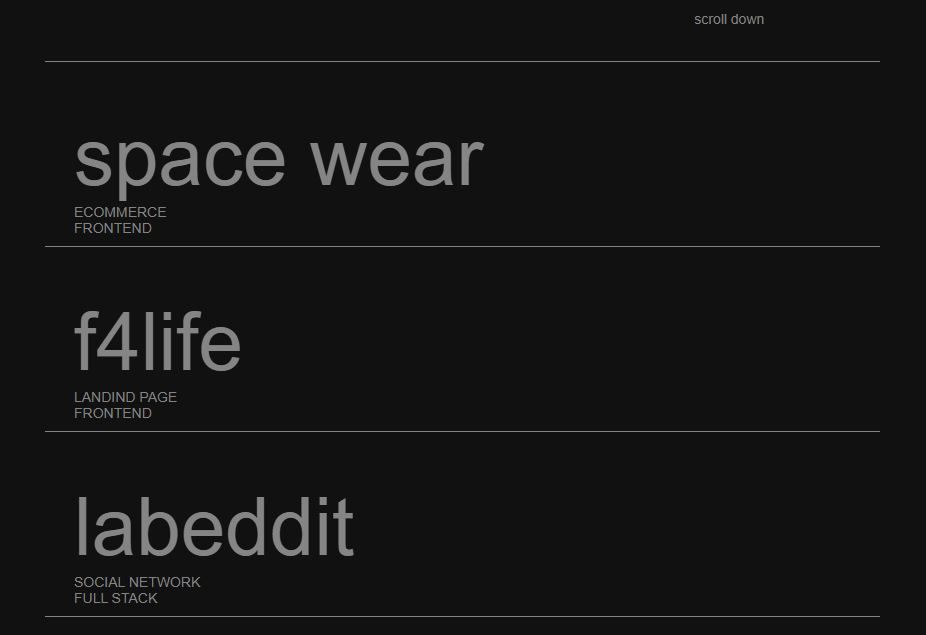
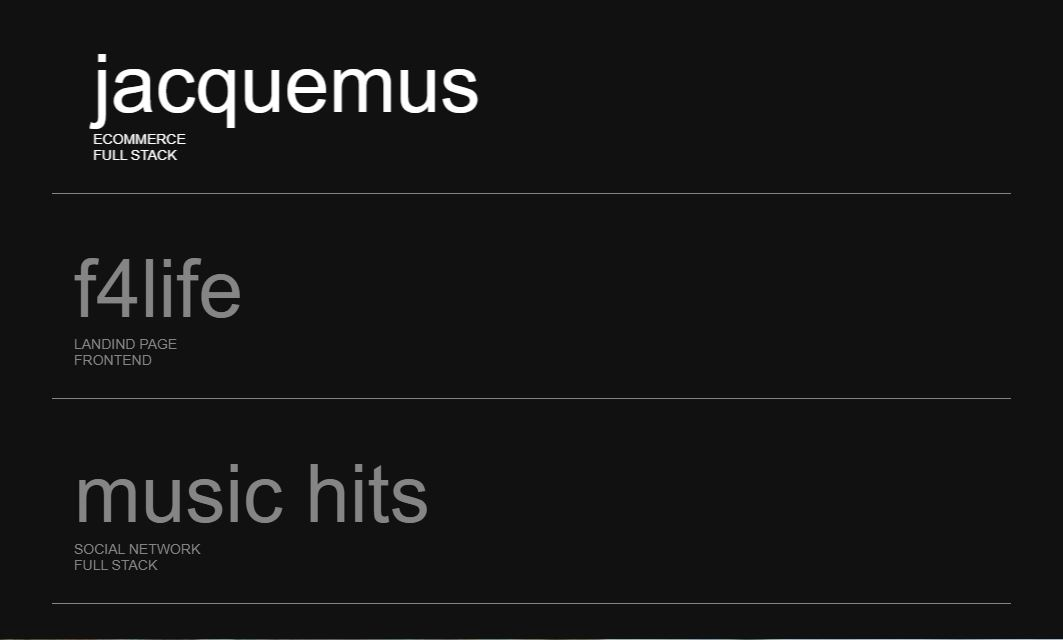
updated projects

diff --git a/index.html b/index.html
@@ -21,7 +21,7 @@
         <nav class="header-navbar">
             <ul>
                 <li>
-                    <a  href="#work" class="up">work</a>
+                    <a href="#work" class="up">work</a>
                 </li>
                 <li>
                     <a href="#about" class="up">about</a>
@@ -45,34 +45,46 @@
                     <h2 class="project-name">Jacquemus</h2>
                     <div class="type">
                         <p>Ecommerce</p>
-                        <p>Frontend</p>
+                        <p>Full Stack</p>
                     </div>
                 </div>
                 <div class="project-content">
+                    <div class="arrow">
+                        <img src="assets/4.gif" draggable="false" alt="arrow">
+                        <p>drag to see more images</p>
+                    </div>
                     <div class="album" data-mouse-down-at="0" data-prev-percentage="0">
                         <div class="album-images" data-max-scroll="300vw">
-                            <img src="assets/1/ecommerce.gif" draggable="false">
-                            <img src="assets/1/1.png" draggable="false">
-                            <img src="assets/1/2.png" draggable="false">
-                            <img src="assets/1/3.png" draggable="false">
-                            <img src="assets/1/mobile.jpg" draggable="false">
+                            <img src="assets/Ecommerce/ecommerce.gif" draggable="false" alt="print of the project">
+                            <img src="assets/Ecommerce/mobile.jpg" draggable="false" alt="print of the project">
+                            <img src="assets/Ecommerce/1.JPG" draggable="false" alt="print of the project">
+                            <img src="assets/Ecommerce/2.JPG" draggable="false" alt="print of the project">
+                            <img src="assets/Ecommerce/3.JPG" draggable="false" alt="print of the project">
+                            <img src="assets/Ecommerce/4.JPG" draggable="false" alt="print of the project">
+                            <img src="assets/Ecommerce/5.JPG" draggable="false" alt="print of the project">
                         </div>
                     </div>
                     <div class="technologies">
                         <button>
-                            <a href="https://ecommercefrontend-ojoaoneiva.surge.sh/" target="_blank">
+                            <a href="https://ecommerce-joaoneiva.surge.sh/" target="_blank">
                                 Visit site
                             </a>
                         </button>
                         <h4>technologies used:</h4>
                         <ul>
-                            <li>React JS,</li>
-                            <li>Props,</li>
-                            <li>React State,</li>
-                            <li>List rendering,</li>
-                            <li>Conditional rendering,</li>
-                            <li>Local Storage</li>
+                            <li>React,</li>
+                            <li>NodeJS,</li>
+                            <li>Typescript,</li>
+                            <li>Express,</li>
+                            <li>SQLite,</li>
+                            <li>Knex</li>
                         </ul>
+                        <p>The personal project consists on building a fullstack ecommerce, inspired by the Jacquemus
+                            fashion brand website.The backend API and datasource enable user login and signup, and only
+                            if it's an Adim it can create, edit and delete products. The responsive frontend includes a
+                            shopping cart, search filters, product sorting, multiple types of products, a product page
+                            with more details, animation effects for better UI and UX and retain products in the
+                            shopping cart when the page is refreshed.</p>
                     </div>
                 </div>
                 </div>
@@ -87,13 +99,17 @@
                     </div>
                 </div>
                 <div class="project-content">
+                    <div class="arrow">
+                        <img src="assets/4.gif" draggable="false" alt="arrow">
+                        <p>drag to see more images</p>
+                    </div>
                     <div class="album" data-mouse-down-at="0" data-prev-percentage="0">
                         <div class="album-images" data-max-scroll="280vw">
-                            <img src="assets/2/F4life.gif" draggable="false">
-                            <img src="assets/2/a1.jpg" draggable="false">
-                            <img src="assets/2/a2.jpg" draggable="false">
-                            <img src="assets/2/a3.jpg" draggable="false">
-                            <img src="assets/2/amobile.jpg" draggable="false">
+                            <img src="assets/UNIH/UNIH.gif" draggable="false" alt="print of the project">
+                            <img src="assets/UNIH/mobile.jpg" draggable="false" alt="print of the project">
+                            <img src="assets/UNIH/1.jpg" draggable="false" alt="print of the project">
+                            <img src="assets/UNIH/2.jpg" draggable="false" alt="print of the project">
+                            <img src="assets/UNIH/3.jpg" draggable="false" alt="print of the project">
                         </div>
                     </div>
                     <div class="technologies">
@@ -108,9 +124,12 @@
                             <li>CSS,</li>
                             <li>JavaScript,</li>
                             <li>DOM,</li>
-                            <li>CSS grid,</li>
-                            <li>Flexbox</li>
+                            <li>GSAP</li>
                         </ul>
+                        <p>Responsive landing page that responds to user interactions, for a fictional company focusing
+                            on university housing. It has parallax effect to give depth ilusion, animation on texts and
+                            images, hamburguer for mobile menu, image slider, loading page, smooth scroll, smooth
+                            section transition.</p>
                     </div>
                 </div>
                 </div>
@@ -125,17 +144,21 @@
                     </div>
                 </div>
                 <div class="project-content">
+                    <div class="arrow">
+                        <img src="assets/4.gif" draggable="false" alt="arrow">
+                        <p>drag to see more images</p>
+                    </div>
                     <div class="album" data-mouse-down-at="0" data-prev-percentage="0">
                         <div class="album-images" data-max-scroll="0">
-                            <img src="assets/3/musichits1.gif" draggable="false">
-                            <img src="assets/3/musichits2.gif" draggable="false">
-                            <img src="assets/3/mobile.jpg" draggable="false">
-                            <img src="assets/3/1.JPG" draggable="false">
-                            <img src="assets/3/2.JPG" draggable="false">
-                            <img src="assets/3/3.JPG" draggable="false">
-                            <img src="assets/3/4.JPG" draggable="false">
-                            <img src="assets/3/5.JPG" draggable="false">
-                            <img src="assets/3/6.JPG" draggable="false">
+                            <img src="assets/MusicHits/musichits1.gif" draggable="false">
+                            <img src="assets/MusicHits/musichits2.gif" draggable="false">
+                            <img src="assets/MusicHits/mobile.jpg" draggable="false">
+                            <img src="assets/MusicHits/1.JPG" draggable="false" alt="print of the project">
+                            <img src="assets/MusicHits/2.JPG" draggable="false" alt="print of the project">
+                            <img src="assets/MusicHits/3.JPG" draggable="false" alt="print of the project">
+                            <img src="assets/MusicHits/4.JPG" draggable="false" alt="print of the project">
+                            <img src="assets/MusicHits/5.JPG" draggable="false" alt="print of the project">
+                            <img src="assets/MusicHits/6.JPG" draggable="false" alt="print of the project">
                         </div>
                     </div>
                     <div class="technologies">
@@ -162,6 +185,11 @@
                             <li>POO,</li>
                             <li>Layred Archtecture</li>
                         </ul>
+                        <p>Fullstack website, of a responsive social media plataform to share music videos and its
+                            backend applicaction that builds an API with data source for users, posts, likes, and
+                            comments, creating hashed password for better security of data. The front-end has
+                            funcionalitys for login and signup, profile page, Home page with all user's posts or
+                            friend's posts, notifications, search for users and create, edit and delete posts.</p>
                     </div>
                 </div>
                 <div class="line"></div>
@@ -170,7 +198,9 @@
 
         <div id="about">
             <p>
-                Hi there! I'm a developer from Brazil, focused on building frontend applications. I also have experiences working on full-stack personal projects and I'm constatly studying and exploring new technologies. If you have any questions or colaboration proposals in mind, feel free to get in touch!
+                Hi there! I'm a developer from Brazil, focused on building fullstack applications. I have
+                experiences working on  personal projects of websites and I'm constatly studying and exploring new
+                technologies. If you have any questions or colaboration proposals in mind, feel free to get in touch!
             </p>
         </div>
     </main>
@@ -178,10 +208,8 @@
     <footer id="contact">
         <div id="email">jg.neiva@gmail.com</div>
         <div>
-            <a class="button-hover" href="https://www.linkedin.com/in/ojoaoneiva/" target="_blank">LinkedIn</a>
+            <a class="buttonEffect" href="https://www.linkedin.com/in/ojoaoneiva/" target="_blank">LinkedIn</a>
             <a class="buttonEffect" href="https://github.com/ojoaoneiva/" target="_blank">GitHub</a>
-            <a class="buttonEffect" href="assets/cv-en/CV Joao Neiva.pdf" target="_blank">CV-english</a>
-            <a class="buttonEffect" href="assets/cv-pt/CV João Neiva.pdf" target="_blank">CV-português</a>
         </div>
         <p>Joao Gabriel Neiva &copy; Copyright - 2023. Fullstack portfolio</p>
     </footer>

diff --git a/sass/style.sass b/sass/style.sass
@@ -24,6 +24,44 @@ a:hover
 ul
     list-style: none
 
+.buttonEffect
+    color: variables.$color-text
+    border: 1px solid variables.$color-text
+    background-color: transparent
+    padding: 15px 30px
+    width: fit-content
+    text-transform: uppercase
+    cursor: pointer
+    margin: 10px
+    position: relative
+    overflow: hidden
+    transition: color 0.2s ease
+    z-index: 2
+    border-radius: 30px
+    font-size: 20px
+    padding: 5px 10px
+    border: 2px solid variables.$color-text
+    text-transform: uppercase
+    user-select: none
+
+.buttonEffect:before
+    content: ""
+    position: absolute
+    top: 100%
+    left: 0
+    width: 100%
+    height: 100%
+    z-index: -1
+    background: linear-gradient(to bottom, variables.$primary-color 0%, variables.$primary-color 100%)
+    transition: transform 0.2s ease
+    color: variables.$primary-color
+
+.buttonEffect:hover:before
+    transform: translateY(-100%)
+
+.buttonEffect:hover
+    color: variables.$color-bg
+
 header
     visibility: hidden
     @include mixins.flex-center
@@ -113,6 +151,17 @@ main
             overflow: hidden
             transition: 1s ease
             margin-bottom: 20px
+            .arrow
+                display: flex
+                align-items: center
+                justify-content: end
+                margin-bottom: 10px
+                margin-right: 15px
+                p
+                    font-size: 16px
+                img
+                    width: 40px
+                    margin-top: -10px
             .album
                 display: flex
                 height: 50vh
@@ -163,13 +212,18 @@ main
                     gap: 10px
                     margin: 20px 0px
                     @include mixins.mobile
-                        max-width: 90vw
+                        max-width: 87vw
                     li
                         border-radius: 0
                         font-size: 18px
                         text-transform: none
                         @include mixins.mobile
                             font-size: 16px
+                p
+                    max-width: 70vw
+                    font-size: 16px
+                    @include mixins.mobile
+                        max-width: 87vw
                             
         .line
             margin: 0 auto
@@ -220,17 +274,17 @@ footer
         @include mixins.flex-center
         gap: 30px
         flex-wrap: wrap
-        a
-            border-radius: 30px
-            font-size: 20px
-            padding: 5px 10px
-            border: 2px solid variables.$color-text
-            text-transform: uppercase
-            user-select: none
-        a:hover
-            background-color: variables.$primary-color
-            border: 2px solid variables.$primary-color
-            color: variables.$color-bg
+        // a
+        //     border-radius: 30px
+        //     font-size: 20px
+        //     padding: 5px 10px
+        //     border: 2px solid variables.$color-text
+        //     text-transform: uppercase
+        //     user-select: none
+        // a:hover
+        //     background-color: variables.$primary-color
+        //     border: 2px solid variables.$primary-color
+        //     color: variables.$color-bg
     p
         font-size: 16px
         margin-top: 50px

diff --git a/css/style.css b/css/style.css
@@ -28,6 +28,48 @@ ul {
   list-style: none;
 }
 
+.buttonEffect {
+  color: #858585;
+  border: 1px solid #858585;
+  background-color: transparent;
+  padding: 15px 30px;
+  width: fit-content;
+  text-transform: uppercase;
+  cursor: pointer;
+  margin: 10px;
+  position: relative;
+  overflow: hidden;
+  transition: color 0.2s ease;
+  z-index: 2;
+  border-radius: 30px;
+  font-size: 20px;
+  padding: 5px 10px;
+  border: 2px solid #858585;
+  text-transform: uppercase;
+  user-select: none;
+}
+
+.buttonEffect:before {
+  content: "";
+  position: absolute;
+  top: 100%;
+  left: 0;
+  width: 100%;
+  height: 100%;
+  z-index: -1;
+  background: linear-gradient(to bottom, #FFF 0%, #FFF 100%);
+  transition: transform 0.2s ease;
+  color: #FFF;
+}
+
+.buttonEffect:hover:before {
+  transform: translateY(-100%);
+}
+
+.buttonEffect:hover {
+  color: #111111;
+}
+
 header {
   visibility: hidden;
   display: flex;
@@ -143,6 +185,20 @@ main li .project-content {
   transition: 1s ease;
   margin-bottom: 20px;
 }
+main li .project-content .arrow {
+  display: flex;
+  align-items: center;
+  justify-content: end;
+  margin-bottom: 10px;
+  margin-right: 15px;
+}
+main li .project-content .arrow p {
+  font-size: 16px;
+}
+main li .project-content .arrow img {
+  width: 40px;
+  margin-top: -10px;
+}
 main li .project-content .album {
   display: flex;
   height: 50vh;
@@ -208,7 +264,7 @@ main li .project-content .technologies ul {
 }
 @media (max-width: 450px) {
   main li .project-content .technologies ul {
-    max-width: 90vw;
+    max-width: 87vw;
   }
 }
 main li .project-content .technologies ul li {
@@ -219,6 +275,15 @@ main li .project-content .technologies ul li {
 @media (max-width: 450px) {
   main li .project-content .technologies ul li {
     font-size: 16px;
+  }
+}
+main li .project-content .technologies p {
+  max-width: 70vw;
+  font-size: 16px;
+}
+@media (max-width: 450px) {
+  main li .project-content .technologies p {
+    max-width: 87vw;
   }
 }
 main li .line {
@@ -284,19 +349,6 @@ footer div {
   justify-content: center;
   gap: 30px;
   flex-wrap: wrap;
-}
-footer div a {
-  border-radius: 30px;
-  font-size: 20px;
-  padding: 5px 10px;
-  border: 2px solid #858585;
-  text-transform: uppercase;
-  user-select: none;
-}
-footer div a:hover {
-  background-color: #FFF;
-  border: 2px solid #FFF;
-  color: #111111;
 }
 footer p {
   font-size: 16px;
